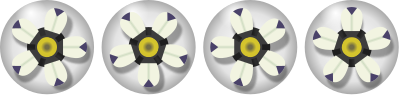
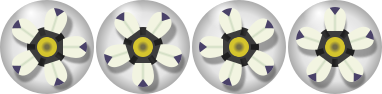
improve onion rendering

diff --git a/source/source/content/mob/onion.cpp b/source/source/content/mob/onion.cpp
@@ -124,16 +124,24 @@ void Onion::drawMob() {
         (type->useDamageSquashAndStretch ? SPRITE_BMP_EFFECT_DAMAGE : 0)
     );
     
-    //eff.tintColor.a *= (seethrough / 255.0f);
-    al_use_shader(game.shaders.getShader(SHADER_TYPE_ONION));
-    al_set_shader_sampler(
-        "colormap", nest->nestType->menuColormap, 1
-    );
-    al_set_shader_float("area_time", game.timePassed * 1.5f);
-    al_set_shader_float("brightness", 1.0f);
-    al_set_shader_float("opacity", 1.0f);
-    al_set_shader_float("scale", 0.2f);
+    if(nest->nestType->pikTypes.size() == 1) {
+        al_use_shader(game.shaders.getShader(SHADER_TYPE_COLORIZER));
+        al_set_shader_float_vector(
+            "colorizer_color", 4, (float*) &nest->nestType->pikTypes[0]->mainColor, 1
+        );
+    } else {
+        al_use_shader(game.shaders.getShader(SHADER_TYPE_ONION));
+        al_set_shader_sampler(
+            "colormap", nest->nestType->menuColormap, 1
+        );
+        al_set_shader_float("area_time", game.timePassed + pos.x);
+        al_set_shader_float("brightness", 1.0f);
+        al_set_shader_float("opacity", 1.0f);
+        al_set_shader_float("scale", 0.2f);
+    }
+    
     drawBitmapWithEffects(curSPtr->bitmap, eff);
+    //eff.tintColor.a *= (seethrough / 255.0f);
     al_use_shader(nullptr);
 }
 

diff --git a/source/source/core/shaders_source.cpp b/source/source/core/shaders_source.cpp
@@ -618,13 +618,6 @@ bool alpha_test_func(float x, int op, float compare)
  */
 
 void main() {
-
-    float final_alpha = opacity;
-
-    if(al_use_tex) {
-        final_alpha *= (varying_color * texture2D(al_tex, varying_texcoord)).a;
-    }
-
     //--- Basics ---
 
     //Define some variables that'll be used throughout the shader.
@@ -634,6 +627,14 @@ void main() {
     float raw_noise_value = simplex_noise(varying_texcoord, scale, noise_func_step, 0.02);
     raw_noise_value = simplex_noise(varying_texcoord + raw_noise_value, scale, noise_func_step, 0.02);
     vec4 final_pixel = texture(colormap, vec2((raw_noise_value + 0.2) * 2.5, 0));
+
+    //Calculate alpha
+    float final_alpha = opacity;
+
+    if(al_use_tex) {
+        final_alpha *= (varying_color * texture2D(al_tex, varying_texcoord)).a;
+    }
+
     final_pixel.a = final_alpha;
     final_pixel.r *= brightness;
     final_pixel.g *= brightness;

diff --git a/source/source/content/mob_script/onion_fsm.cpp b/source/source/content/mob_script/onion_fsm.cpp
@@ -227,9 +227,7 @@ void OnionFsm::startGenerating(Mob* m, void* info1, void* info2) {
  * @param info2 Unused.
  */
 void OnionFsm::startIdling(Mob* m, void* info1, void* info2) {
-    m->setAnimation(
-        MOB_TYPE::ANIM_IDLING, START_ANIM_OPTION_RANDOM_TIME_ON_SPAWN, true
-    );
+    m->setAnimation(MOB_TYPE::ANIM_IDLING);
 }
 
 
